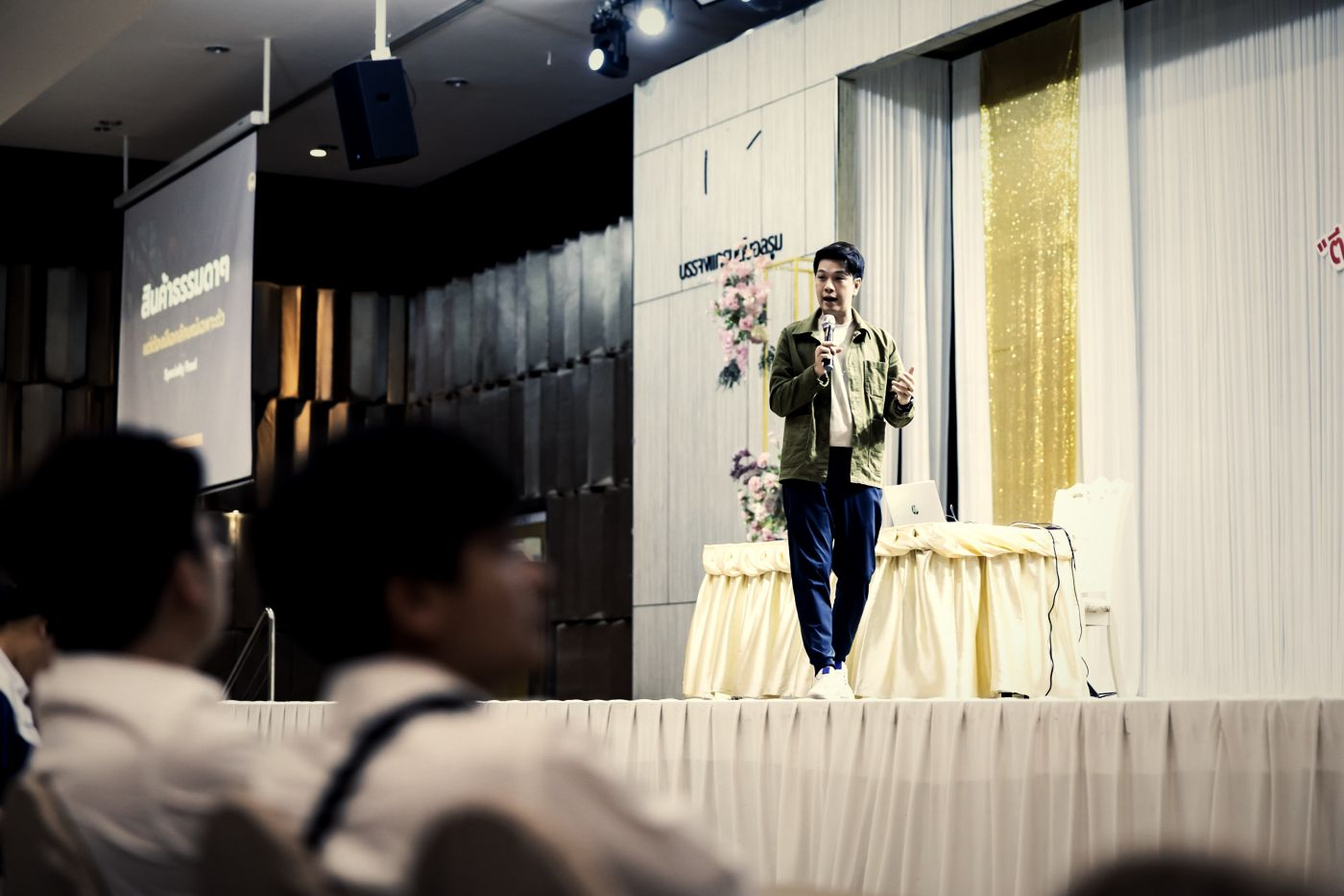
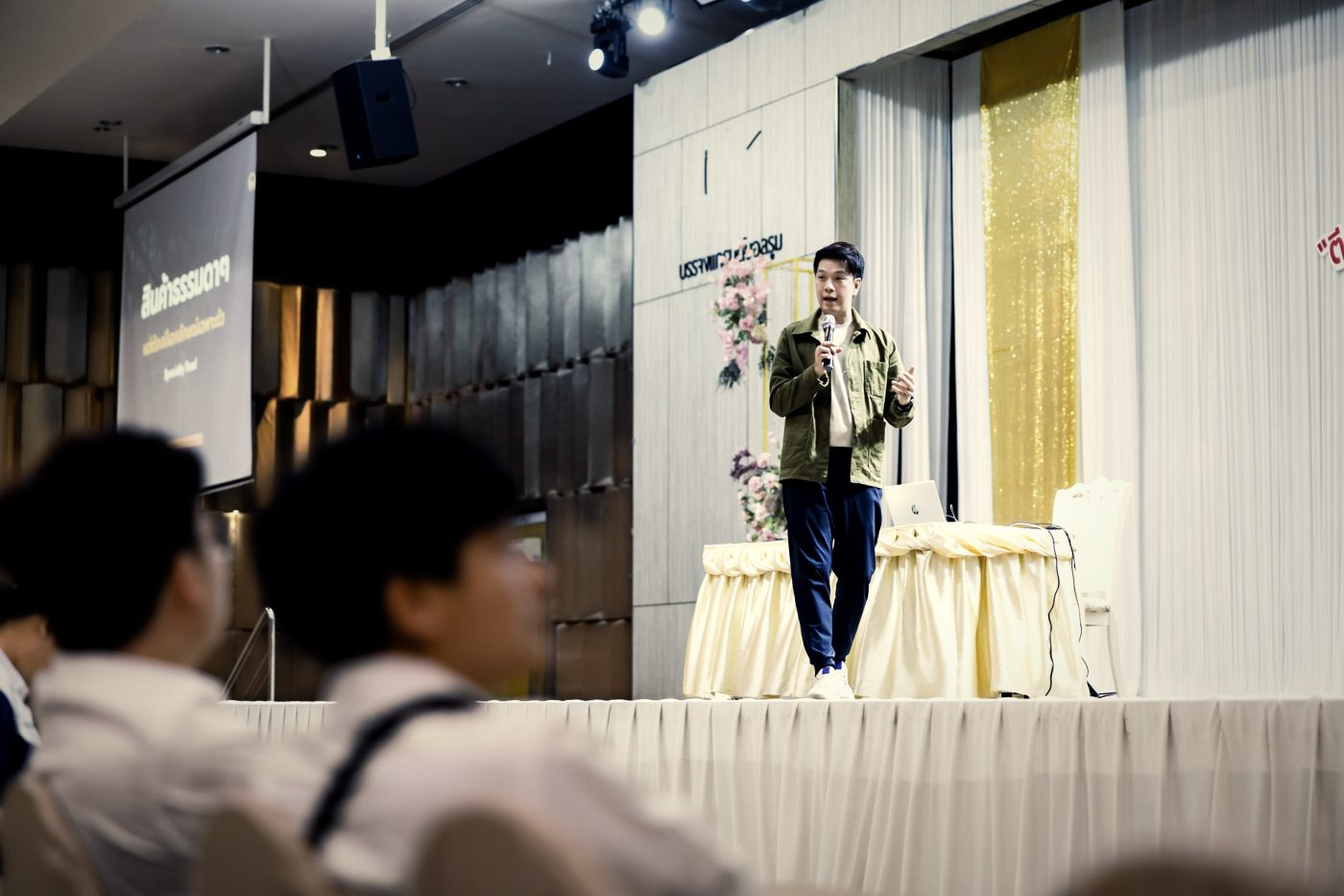
รูปบนเวที: แก้หน้าซีด (#89)
* โปรไฟล์ Tor: แก้โทนสีรูปบนเวทีไม่ให้หน้าซีด — คงสีผิวใกล้รูปจริง ปรับเฉพาะพื้นหลังให้เป็นชุดเดียวกัน

Claude-Session: https://claude.ai/code/session_016YPeq1QfuTv836j6tAPr47

* โปรไฟล์ Tor: ตัดคำบรรยายใต้รูปบนเวที (คงข้อความไว้ใน alt)

Claude-Session: https://claude.ai/code/session_016YPeq1QfuTv836j6tAPr47

---------

diff --git a/th/about/tor/index.html b/th/about/tor/index.html
@@ -272,13 +272,13 @@
   <div class="speak-logos"><picture><source media="(max-width:620px)" srcset="/about/tor/speaking-clients-m.jpg" width="900" height="1053"><img src="/about/tor/speaking-clients.jpg?v=2" alt="Logos of organizations Tor has given keynotes or corporate training for, including OR, CP, GO Wholesale, Makro, LINE, Betagro, Mitr Phol, SCGJWD, True Digital, AIS Academy, Grab, LINE MAN, Wongnai, Robinhood, Ocean, Unilever, Singha, Shell, Bridgestone, Tyson, Punthai Coffee, AP Thailand, Knight Frank, KCG Corporation, Hop Inn, Jagota, SC Asset, Origin Property, Impact Muang Thong Thani, THAIFEX – HOREC Asia, SCB, ttb, KBank, Krungsri, Government Savings Bank, SME Development Bank, Tourism Authority of Thailand, National Innovation Agency (NIA), TED Fund, Department of Business Development (DBD), Department of Industrial Promotion (DIPROM), Chulalongkorn University, Thammasat University (Faculty of Public Health), Kasetsart University, Rangsit University, University of the Thai Chamber of Commerce (UTCC), Ramkhamhaeng University" width="1600" height="497" loading="lazy" decoding="async"></picture></div>
 
   <div class="speak-gallery">
-    <figure class="wide"><img src="/about/tor/speaking/keynote-ballroom.jpg" alt="บรรยายในห้องบอลรูมที่ผู้ฟังเต็มห้อง" width="1400" height="1057" loading="lazy" decoding="async"><figcaption>บรรยายในห้องบอลรูมที่ผู้ฟังเต็มห้อง</figcaption></figure>
-    <figure><img src="/about/tor/speaking/ksme-care-27.jpg" alt="ร่วมเสวนาในงาน KSME Care #27 ของ KBank" width="1400" height="933" loading="lazy" decoding="async"><figcaption>ร่วมเสวนาในงาน KSME Care #27 ของ KBank</figcaption></figure>
-    <figure><img src="/about/tor/speaking/restaurant-new-curve.jpg" alt="สัมมนา Restaurant New Curve" width="1400" height="933" loading="lazy" decoding="async"><figcaption>สัมมนา Restaurant New Curve</figcaption></figure>
-    <figure><img src="/about/tor/speaking/coffee-business-talk.jpg" alt="บรรยายบนเวทีธุรกิจกาแฟ" width="1400" height="933" loading="lazy" decoding="async"><figcaption>บรรยายบนเวทีธุรกิจกาแฟ</figcaption></figure>
-    <figure><img src="/about/tor/speaking/nuea-tae-panel.jpg" alt="ดำเนินรายการวงเสวนากับทีมผู้ก่อตั้งเนื้อแท้" width="1400" height="930" loading="lazy" decoding="async"><figcaption>ดำเนินรายการวงเสวนากับทีมผู้ก่อตั้งเนื้อแท้</figcaption></figure>
-    <figure><img src="/about/tor/speaking/ceo-branding-program.jpg" alt="CEO Branding Program จัดโดย PenguinX" width="1400" height="934" loading="lazy" decoding="async"><figcaption>CEO Branding Program จัดโดย PenguinX</figcaption></figure>
-    <figure><img src="/about/tor/speaking/keynote-stage.jpg" alt="บรรยายพิเศษ" width="1400" height="933" loading="lazy" decoding="async"><figcaption>บรรยายพิเศษ</figcaption></figure>
+    <figure class="wide"><img src="/about/tor/speaking/keynote-ballroom.jpg" alt="บรรยายในห้องบอลรูมที่ผู้ฟังเต็มห้อง" width="1400" height="1057" loading="lazy" decoding="async"></figure>
+    <figure><img src="/about/tor/speaking/ksme-care-27.jpg" alt="ร่วมเสวนาในงาน KSME Care #27 ของ KBank" width="1400" height="933" loading="lazy" decoding="async"></figure>
+    <figure><img src="/about/tor/speaking/restaurant-new-curve.jpg" alt="สัมมนา Restaurant New Curve" width="1400" height="933" loading="lazy" decoding="async"></figure>
+    <figure><img src="/about/tor/speaking/coffee-business-talk.jpg" alt="บรรยายบนเวทีธุรกิจกาแฟ" width="1400" height="933" loading="lazy" decoding="async"></figure>
+    <figure><img src="/about/tor/speaking/nuea-tae-panel.jpg" alt="ดำเนินรายการวงเสวนากับทีมผู้ก่อตั้งเนื้อแท้" width="1400" height="930" loading="lazy" decoding="async"></figure>
+    <figure><img src="/about/tor/speaking/ceo-branding-program.jpg" alt="CEO Branding Program จัดโดย PenguinX" width="1400" height="934" loading="lazy" decoding="async"></figure>
+    <figure><img src="/about/tor/speaking/keynote-stage.jpg" alt="บรรยายพิเศษ" width="1400" height="933" loading="lazy" decoding="async"></figure>
   </div>
 
   <h2 lang="en">Topics he speaks and writes about</h2>

diff --git a/ja/about/tor/index.html b/ja/about/tor/index.html
@@ -271,13 +271,13 @@
   <div class="speak-logos"><picture><source media="(max-width:620px)" srcset="/about/tor/speaking-clients-m.jpg" width="900" height="1053"><img src="/about/tor/speaking-clients.jpg?v=2" alt="Logos of organizations Tor has given keynotes or corporate training for, including OR, CP, GO Wholesale, Makro, LINE, Betagro, Mitr Phol, SCGJWD, True Digital, AIS Academy, Grab, LINE MAN, Wongnai, Robinhood, Ocean, Unilever, Singha, Shell, Bridgestone, Tyson, Punthai Coffee, AP Thailand, Knight Frank, KCG Corporation, Hop Inn, Jagota, SC Asset, Origin Property, Impact Muang Thong Thani, THAIFEX – HOREC Asia, SCB, ttb, KBank, Krungsri, Government Savings Bank, SME Development Bank, Tourism Authority of Thailand, National Innovation Agency (NIA), TED Fund, Department of Business Development (DBD), Department of Industrial Promotion (DIPROM), Chulalongkorn University, Thammasat University (Faculty of Public Health), Kasetsart University, Rangsit University, University of the Thai Chamber of Commerce (UTCC), Ramkhamhaeng University" width="1600" height="497" loading="lazy" decoding="async"></picture></div>
 
   <div class="speak-gallery">
-    <figure class="wide"><img src="/about/tor/speaking/keynote-ballroom.jpg" alt="満席のボールルームでの基調講演" width="1400" height="1057" loading="lazy" decoding="async"><figcaption>満席のボールルームでの基調講演</figcaption></figure>
-    <figure><img src="/about/tor/speaking/ksme-care-27.jpg" alt="カシコン銀行「KSME Care #27」でのパネルディスカッション" width="1400" height="933" loading="lazy" decoding="async"><figcaption>カシコン銀行「KSME Care #27」でのパネルディスカッション</figcaption></figure>
-    <figure><img src="/about/tor/speaking/restaurant-new-curve.jpg" alt="セミナー「Restaurant New Curve」" width="1400" height="933" loading="lazy" decoding="async"><figcaption>セミナー「Restaurant New Curve」</figcaption></figure>
-    <figure><img src="/about/tor/speaking/coffee-business-talk.jpg" alt="コーヒービジネスのステージでの講演" width="1400" height="933" loading="lazy" decoding="async"><figcaption>コーヒービジネスのステージでの講演</figcaption></figure>
-    <figure><img src="/about/tor/speaking/nuea-tae-panel.jpg" alt="Nuea Taeの創業チームとのセッションでモデレーターを担当" width="1400" height="930" loading="lazy" decoding="async"><figcaption>Nuea Taeの創業チームとのセッションでモデレーターを担当</figcaption></figure>
-    <figure><img src="/about/tor/speaking/ceo-branding-program.jpg" alt="CEO Branding Program（主催：PenguinX）" width="1400" height="934" loading="lazy" decoding="async"><figcaption>CEO Branding Program（主催：PenguinX）</figcaption></figure>
-    <figure><img src="/about/tor/speaking/keynote-stage.jpg" alt="基調講演" width="1400" height="933" loading="lazy" decoding="async"><figcaption>基調講演</figcaption></figure>
+    <figure class="wide"><img src="/about/tor/speaking/keynote-ballroom.jpg" alt="満席のボールルームでの基調講演" width="1400" height="1057" loading="lazy" decoding="async"></figure>
+    <figure><img src="/about/tor/speaking/ksme-care-27.jpg" alt="カシコン銀行「KSME Care #27」でのパネルディスカッション" width="1400" height="933" loading="lazy" decoding="async"></figure>
+    <figure><img src="/about/tor/speaking/restaurant-new-curve.jpg" alt="セミナー「Restaurant New Curve」" width="1400" height="933" loading="lazy" decoding="async"></figure>
+    <figure><img src="/about/tor/speaking/coffee-business-talk.jpg" alt="コーヒービジネスのステージでの講演" width="1400" height="933" loading="lazy" decoding="async"></figure>
+    <figure><img src="/about/tor/speaking/nuea-tae-panel.jpg" alt="Nuea Taeの創業チームとのセッションでモデレーターを担当" width="1400" height="930" loading="lazy" decoding="async"></figure>
+    <figure><img src="/about/tor/speaking/ceo-branding-program.jpg" alt="CEO Branding Program（主催：PenguinX）" width="1400" height="934" loading="lazy" decoding="async"></figure>
+    <figure><img src="/about/tor/speaking/keynote-stage.jpg" alt="基調講演" width="1400" height="933" loading="lazy" decoding="async"></figure>
   </div>
 
   <h2>講演・執筆テーマ</h2>

diff --git a/about/tor/index.html b/about/tor/index.html
@@ -271,13 +271,13 @@
   <div class="speak-logos"><picture><source media="(max-width:620px)" srcset="/about/tor/speaking-clients-m.jpg" width="900" height="1053"><img src="/about/tor/speaking-clients.jpg?v=2" alt="Logos of organizations Tor has given keynotes or corporate training for, including OR, CP, GO Wholesale, Makro, LINE, Betagro, Mitr Phol, SCGJWD, True Digital, AIS Academy, Grab, LINE MAN, Wongnai, Robinhood, Ocean, Unilever, Singha, Shell, Bridgestone, Tyson, Punthai Coffee, AP Thailand, Knight Frank, KCG Corporation, Hop Inn, Jagota, SC Asset, Origin Property, Impact Muang Thong Thani, THAIFEX – HOREC Asia, SCB, ttb, KBank, Krungsri, Government Savings Bank, SME Development Bank, Tourism Authority of Thailand, National Innovation Agency (NIA), TED Fund, Department of Business Development (DBD), Department of Industrial Promotion (DIPROM), Chulalongkorn University, Thammasat University (Faculty of Public Health), Kasetsart University, Rangsit University, University of the Thai Chamber of Commerce (UTCC), Ramkhamhaeng University" width="1600" height="497" loading="lazy" decoding="async"></picture></div>
 
   <div class="speak-gallery">
-    <figure class="wide"><img src="/about/tor/speaking/keynote-ballroom.jpg" alt="Keynote to a packed ballroom" width="1400" height="1057" loading="lazy" decoding="async"><figcaption>Keynote to a packed ballroom</figcaption></figure>
-    <figure><img src="/about/tor/speaking/ksme-care-27.jpg" alt="Panel at KSME Care #27 by KBank" width="1400" height="933" loading="lazy" decoding="async"><figcaption>Panel at KSME Care #27 by KBank</figcaption></figure>
-    <figure><img src="/about/tor/speaking/restaurant-new-curve.jpg" alt="Restaurant New Curve seminar" width="1400" height="933" loading="lazy" decoding="async"><figcaption>Restaurant New Curve seminar</figcaption></figure>
-    <figure><img src="/about/tor/speaking/coffee-business-talk.jpg" alt="Talk on a coffee business stage" width="1400" height="933" loading="lazy" decoding="async"><figcaption>Talk on a coffee business stage</figcaption></figure>
-    <figure><img src="/about/tor/speaking/nuea-tae-panel.jpg" alt="Moderating a session with the team behind Nuea Tae" width="1400" height="930" loading="lazy" decoding="async"><figcaption>Moderating a session with the team behind Nuea Tae</figcaption></figure>
-    <figure><img src="/about/tor/speaking/ceo-branding-program.jpg" alt="CEO Branding Program, presented by PenguinX" width="1400" height="934" loading="lazy" decoding="async"><figcaption>CEO Branding Program, presented by PenguinX</figcaption></figure>
-    <figure><img src="/about/tor/speaking/keynote-stage.jpg" alt="Keynote session" width="1400" height="933" loading="lazy" decoding="async"><figcaption>Keynote session</figcaption></figure>
+    <figure class="wide"><img src="/about/tor/speaking/keynote-ballroom.jpg" alt="Keynote to a packed ballroom" width="1400" height="1057" loading="lazy" decoding="async"></figure>
+    <figure><img src="/about/tor/speaking/ksme-care-27.jpg" alt="Panel at KSME Care #27 by KBank" width="1400" height="933" loading="lazy" decoding="async"></figure>
+    <figure><img src="/about/tor/speaking/restaurant-new-curve.jpg" alt="Restaurant New Curve seminar" width="1400" height="933" loading="lazy" decoding="async"></figure>
+    <figure><img src="/about/tor/speaking/coffee-business-talk.jpg" alt="Talk on a coffee business stage" width="1400" height="933" loading="lazy" decoding="async"></figure>
+    <figure><img src="/about/tor/speaking/nuea-tae-panel.jpg" alt="Moderating a session with the team behind Nuea Tae" width="1400" height="930" loading="lazy" decoding="async"></figure>
+    <figure><img src="/about/tor/speaking/ceo-branding-program.jpg" alt="CEO Branding Program, presented by PenguinX" width="1400" height="934" loading="lazy" decoding="async"></figure>
+    <figure><img src="/about/tor/speaking/keynote-stage.jpg" alt="Keynote session" width="1400" height="933" loading="lazy" decoding="async"></figure>
   </div>
 
   <h2>Topics he speaks and writes about</h2>

diff --git a/zh-hant/about/tor/index.html b/zh-hant/about/tor/index.html
@@ -271,13 +271,13 @@
   <div class="speak-logos"><picture><source media="(max-width:620px)" srcset="/about/tor/speaking-clients-m.jpg" width="900" height="1053"><img src="/about/tor/speaking-clients.jpg?v=2" alt="Tor 曾為其做主題演講或企業內訓的機構標誌，包括：OR, CP, GO Wholesale, Makro, LINE, Betagro, Mitr Phol, SCGJWD, True Digital, AIS Academy, Grab, LINE MAN, Wongnai, Robinhood, Ocean, Unilever, Singha, Shell, Bridgestone, Tyson, Punthai Coffee, AP Thailand, Knight Frank, KCG Corporation, Hop Inn, Jagota, SC Asset, Origin Property, Impact Muang Thong Thani, THAIFEX – HOREC Asia, SCB, ttb, KBank, Krungsri, Government Savings Bank, SME Development Bank, Tourism Authority of Thailand, National Innovation Agency (NIA), TED Fund, Department of Business Development (DBD), Department of Industrial Promotion (DIPROM), Chulalongkorn University, Thammasat University (Faculty of Public Health), Kasetsart University, Rangsit University, University of the Thai Chamber of Commerce (UTCC), Ramkhamhaeng University" width="1600" height="497" loading="lazy" decoding="async"></picture></div>
 
   <div class="speak-gallery">
-    <figure class="wide"><img src="/about/tor/speaking/keynote-ballroom.jpg" alt="在座無虛席的宴會廳發表主題演講" width="1400" height="1057" loading="lazy" decoding="async"><figcaption>在座無虛席的宴會廳發表主題演講</figcaption></figure>
-    <figure><img src="/about/tor/speaking/ksme-care-27.jpg" alt="出席開泰銀行 KSME Care #27 座談" width="1400" height="933" loading="lazy" decoding="async"><figcaption>出席開泰銀行 KSME Care #27 座談</figcaption></figure>
-    <figure><img src="/about/tor/speaking/restaurant-new-curve.jpg" alt="Restaurant New Curve 研討會" width="1400" height="933" loading="lazy" decoding="async"><figcaption>Restaurant New Curve 研討會</figcaption></figure>
-    <figure><img src="/about/tor/speaking/coffee-business-talk.jpg" alt="在咖啡商業論壇上演講" width="1400" height="933" loading="lazy" decoding="async"><figcaption>在咖啡商業論壇上演講</figcaption></figure>
-    <figure><img src="/about/tor/speaking/nuea-tae-panel.jpg" alt="主持 Nuea Tae 創辦團隊對談" width="1400" height="930" loading="lazy" decoding="async"><figcaption>主持 Nuea Tae 創辦團隊對談</figcaption></figure>
-    <figure><img src="/about/tor/speaking/ceo-branding-program.jpg" alt="CEO Branding Program，由 PenguinX 主辦" width="1400" height="934" loading="lazy" decoding="async"><figcaption>CEO Branding Program，由 PenguinX 主辦</figcaption></figure>
-    <figure><img src="/about/tor/speaking/keynote-stage.jpg" alt="主題演講" width="1400" height="933" loading="lazy" decoding="async"><figcaption>主題演講</figcaption></figure>
+    <figure class="wide"><img src="/about/tor/speaking/keynote-ballroom.jpg" alt="在座無虛席的宴會廳發表主題演講" width="1400" height="1057" loading="lazy" decoding="async"></figure>
+    <figure><img src="/about/tor/speaking/ksme-care-27.jpg" alt="出席開泰銀行 KSME Care #27 座談" width="1400" height="933" loading="lazy" decoding="async"></figure>
+    <figure><img src="/about/tor/speaking/restaurant-new-curve.jpg" alt="Restaurant New Curve 研討會" width="1400" height="933" loading="lazy" decoding="async"></figure>
+    <figure><img src="/about/tor/speaking/coffee-business-talk.jpg" alt="在咖啡商業論壇上演講" width="1400" height="933" loading="lazy" decoding="async"></figure>
+    <figure><img src="/about/tor/speaking/nuea-tae-panel.jpg" alt="主持 Nuea Tae 創辦團隊對談" width="1400" height="930" loading="lazy" decoding="async"></figure>
+    <figure><img src="/about/tor/speaking/ceo-branding-program.jpg" alt="CEO Branding Program，由 PenguinX 主辦" width="1400" height="934" loading="lazy" decoding="async"></figure>
+    <figure><img src="/about/tor/speaking/keynote-stage.jpg" alt="主題演講" width="1400" height="933" loading="lazy" decoding="async"></figure>
   </div>
 
   <h2>演講與寫作主題</h2>

diff --git a/zh/about/tor/index.html b/zh/about/tor/index.html
@@ -274,13 +274,13 @@
   <div class="speak-logos"><picture><source media="(max-width:620px)" srcset="/about/tor/speaking-clients-m.jpg" width="900" height="1053"><img src="/about/tor/speaking-clients.jpg?v=2" alt="Tor 曾为其做主题演讲或企业培训的机构标志，包括：OR, CP, GO Wholesale, Makro, LINE, Betagro, Mitr Phol, SCGJWD, True Digital, AIS Academy, Grab, LINE MAN, Wongnai, Robinhood, Ocean, Unilever, Singha, Shell, Bridgestone, Tyson, Punthai Coffee, AP Thailand, Knight Frank, KCG Corporation, Hop Inn, Jagota, SC Asset, Origin Property, Impact Muang Thong Thani, THAIFEX – HOREC Asia, SCB, ttb, KBank, Krungsri, Government Savings Bank, SME Development Bank, Tourism Authority of Thailand, National Innovation Agency (NIA), TED Fund, Department of Business Development (DBD), Department of Industrial Promotion (DIPROM), Chulalongkorn University, Thammasat University (Faculty of Public Health), Kasetsart University, Rangsit University, University of the Thai Chamber of Commerce (UTCC), Ramkhamhaeng University" width="1600" height="497" loading="lazy" decoding="async"></picture></div>
 
   <div class="speak-gallery">
-    <figure class="wide"><img src="/about/tor/speaking/keynote-ballroom.jpg" alt="在座无虚席的宴会厅发表主题演讲" width="1400" height="1057" loading="lazy" decoding="async"><figcaption>在座无虚席的宴会厅发表主题演讲</figcaption></figure>
-    <figure><img src="/about/tor/speaking/ksme-care-27.jpg" alt="出席开泰银行 KSME Care #27 座谈" width="1400" height="933" loading="lazy" decoding="async"><figcaption>出席开泰银行 KSME Care #27 座谈</figcaption></figure>
-    <figure><img src="/about/tor/speaking/restaurant-new-curve.jpg" alt="Restaurant New Curve 研讨会" width="1400" height="933" loading="lazy" decoding="async"><figcaption>Restaurant New Curve 研讨会</figcaption></figure>
-    <figure><img src="/about/tor/speaking/coffee-business-talk.jpg" alt="在咖啡商业论坛上演讲" width="1400" height="933" loading="lazy" decoding="async"><figcaption>在咖啡商业论坛上演讲</figcaption></figure>
-    <figure><img src="/about/tor/speaking/nuea-tae-panel.jpg" alt="主持 Nuea Tae 创始团队对谈" width="1400" height="930" loading="lazy" decoding="async"><figcaption>主持 Nuea Tae 创始团队对谈</figcaption></figure>
-    <figure><img src="/about/tor/speaking/ceo-branding-program.jpg" alt="CEO Branding Program，由 PenguinX 主办" width="1400" height="934" loading="lazy" decoding="async"><figcaption>CEO Branding Program，由 PenguinX 主办</figcaption></figure>
-    <figure><img src="/about/tor/speaking/keynote-stage.jpg" alt="主题演讲" width="1400" height="933" loading="lazy" decoding="async"><figcaption>主题演讲</figcaption></figure>
+    <figure class="wide"><img src="/about/tor/speaking/keynote-ballroom.jpg" alt="在座无虚席的宴会厅发表主题演讲" width="1400" height="1057" loading="lazy" decoding="async"></figure>
+    <figure><img src="/about/tor/speaking/ksme-care-27.jpg" alt="出席开泰银行 KSME Care #27 座谈" width="1400" height="933" loading="lazy" decoding="async"></figure>
+    <figure><img src="/about/tor/speaking/restaurant-new-curve.jpg" alt="Restaurant New Curve 研讨会" width="1400" height="933" loading="lazy" decoding="async"></figure>
+    <figure><img src="/about/tor/speaking/coffee-business-talk.jpg" alt="在咖啡商业论坛上演讲" width="1400" height="933" loading="lazy" decoding="async"></figure>
+    <figure><img src="/about/tor/speaking/nuea-tae-panel.jpg" alt="主持 Nuea Tae 创始团队对谈" width="1400" height="930" loading="lazy" decoding="async"></figure>
+    <figure><img src="/about/tor/speaking/ceo-branding-program.jpg" alt="CEO Branding Program，由 PenguinX 主办" width="1400" height="934" loading="lazy" decoding="async"></figure>
+    <figure><img src="/about/tor/speaking/keynote-stage.jpg" alt="主题演讲" width="1400" height="933" loading="lazy" decoding="async"></figure>
   </div>
 
   <h2>演讲与写作主题</h2>

diff --git a/ko/about/tor/index.html b/ko/about/tor/index.html
@@ -271,13 +271,13 @@
   <div class="speak-logos"><picture><source media="(max-width:620px)" srcset="/about/tor/speaking-clients-m.jpg" width="900" height="1053"><img src="/about/tor/speaking-clients.jpg?v=2" alt="Logos of organizations Tor has given keynotes or corporate training for, including OR, CP, GO Wholesale, Makro, LINE, Betagro, Mitr Phol, SCGJWD, True Digital, AIS Academy, Grab, LINE MAN, Wongnai, Robinhood, Ocean, Unilever, Singha, Shell, Bridgestone, Tyson, Punthai Coffee, AP Thailand, Knight Frank, KCG Corporation, Hop Inn, Jagota, SC Asset, Origin Property, Impact Muang Thong Thani, THAIFEX – HOREC Asia, SCB, ttb, KBank, Krungsri, Government Savings Bank, SME Development Bank, Tourism Authority of Thailand, National Innovation Agency (NIA), TED Fund, Department of Business Development (DBD), Department of Industrial Promotion (DIPROM), Chulalongkorn University, Thammasat University (Faculty of Public Health), Kasetsart University, Rangsit University, University of the Thai Chamber of Commerce (UTCC), Ramkhamhaeng University" width="1600" height="497" loading="lazy" decoding="async"></picture></div>
 
   <div class="speak-gallery">
-    <figure class="wide"><img src="/about/tor/speaking/keynote-ballroom.jpg" alt="만석의 볼룸에서 한 기조연설" width="1400" height="1057" loading="lazy" decoding="async"><figcaption>만석의 볼룸에서 한 기조연설</figcaption></figure>
-    <figure><img src="/about/tor/speaking/ksme-care-27.jpg" alt="KBank KSME Care #27 패널 토론" width="1400" height="933" loading="lazy" decoding="async"><figcaption>KBank KSME Care #27 패널 토론</figcaption></figure>
-    <figure><img src="/about/tor/speaking/restaurant-new-curve.jpg" alt="Restaurant New Curve 세미나" width="1400" height="933" loading="lazy" decoding="async"><figcaption>Restaurant New Curve 세미나</figcaption></figure>
-    <figure><img src="/about/tor/speaking/coffee-business-talk.jpg" alt="커피 비즈니스 무대 강연" width="1400" height="933" loading="lazy" decoding="async"><figcaption>커피 비즈니스 무대 강연</figcaption></figure>
-    <figure><img src="/about/tor/speaking/nuea-tae-panel.jpg" alt="Nuea Tae 창업팀과의 세션 진행" width="1400" height="930" loading="lazy" decoding="async"><figcaption>Nuea Tae 창업팀과의 세션 진행</figcaption></figure>
-    <figure><img src="/about/tor/speaking/ceo-branding-program.jpg" alt="PenguinX가 주최한 CEO Branding Program" width="1400" height="934" loading="lazy" decoding="async"><figcaption>PenguinX가 주최한 CEO Branding Program</figcaption></figure>
-    <figure><img src="/about/tor/speaking/keynote-stage.jpg" alt="기조연설" width="1400" height="933" loading="lazy" decoding="async"><figcaption>기조연설</figcaption></figure>
+    <figure class="wide"><img src="/about/tor/speaking/keynote-ballroom.jpg" alt="만석의 볼룸에서 한 기조연설" width="1400" height="1057" loading="lazy" decoding="async"></figure>
+    <figure><img src="/about/tor/speaking/ksme-care-27.jpg" alt="KBank KSME Care #27 패널 토론" width="1400" height="933" loading="lazy" decoding="async"></figure>
+    <figure><img src="/about/tor/speaking/restaurant-new-curve.jpg" alt="Restaurant New Curve 세미나" width="1400" height="933" loading="lazy" decoding="async"></figure>
+    <figure><img src="/about/tor/speaking/coffee-business-talk.jpg" alt="커피 비즈니스 무대 강연" width="1400" height="933" loading="lazy" decoding="async"></figure>
+    <figure><img src="/about/tor/speaking/nuea-tae-panel.jpg" alt="Nuea Tae 창업팀과의 세션 진행" width="1400" height="930" loading="lazy" decoding="async"></figure>
+    <figure><img src="/about/tor/speaking/ceo-branding-program.jpg" alt="PenguinX가 주최한 CEO Branding Program" width="1400" height="934" loading="lazy" decoding="async"></figure>
+    <figure><img src="/about/tor/speaking/keynote-stage.jpg" alt="기조연설" width="1400" height="933" loading="lazy" decoding="async"></figure>
   </div>
 
   <h2>강연·집필 주제</h2>
